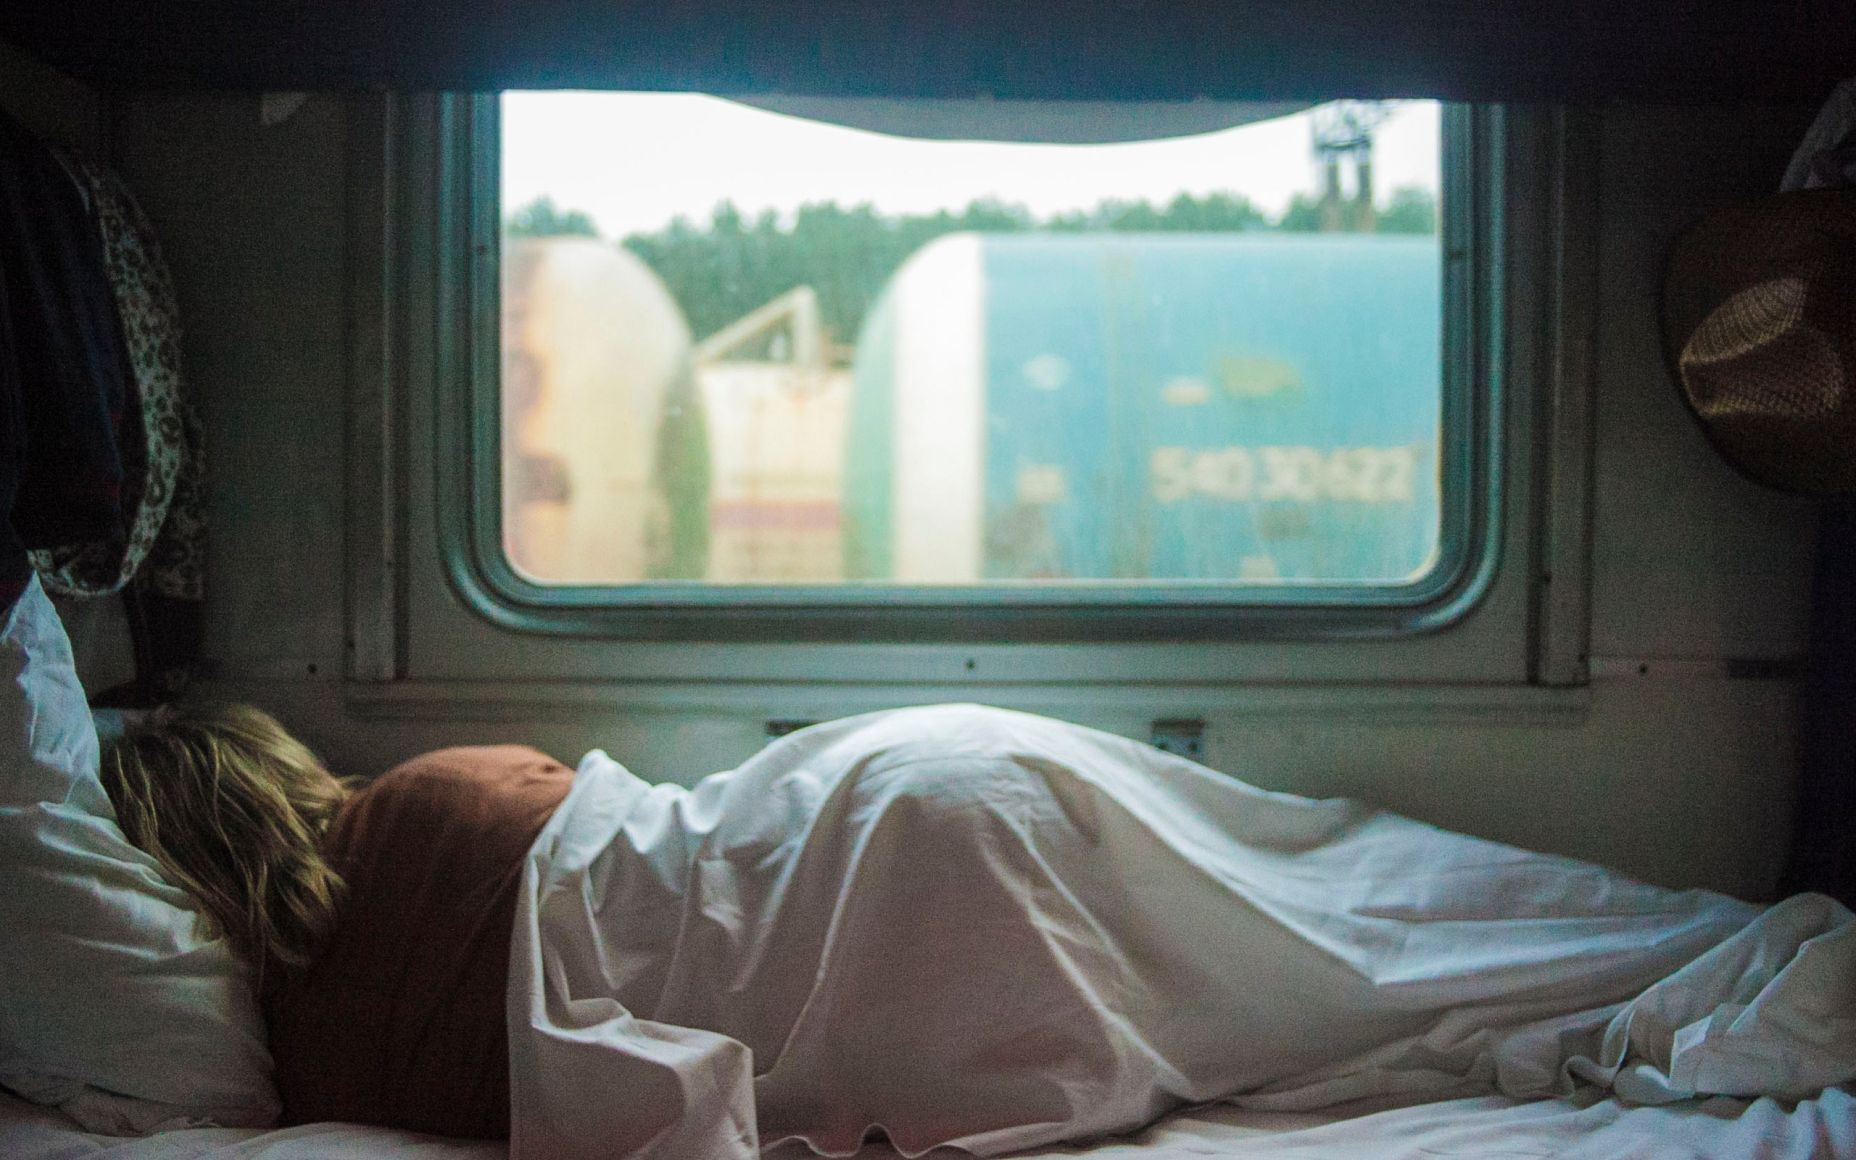
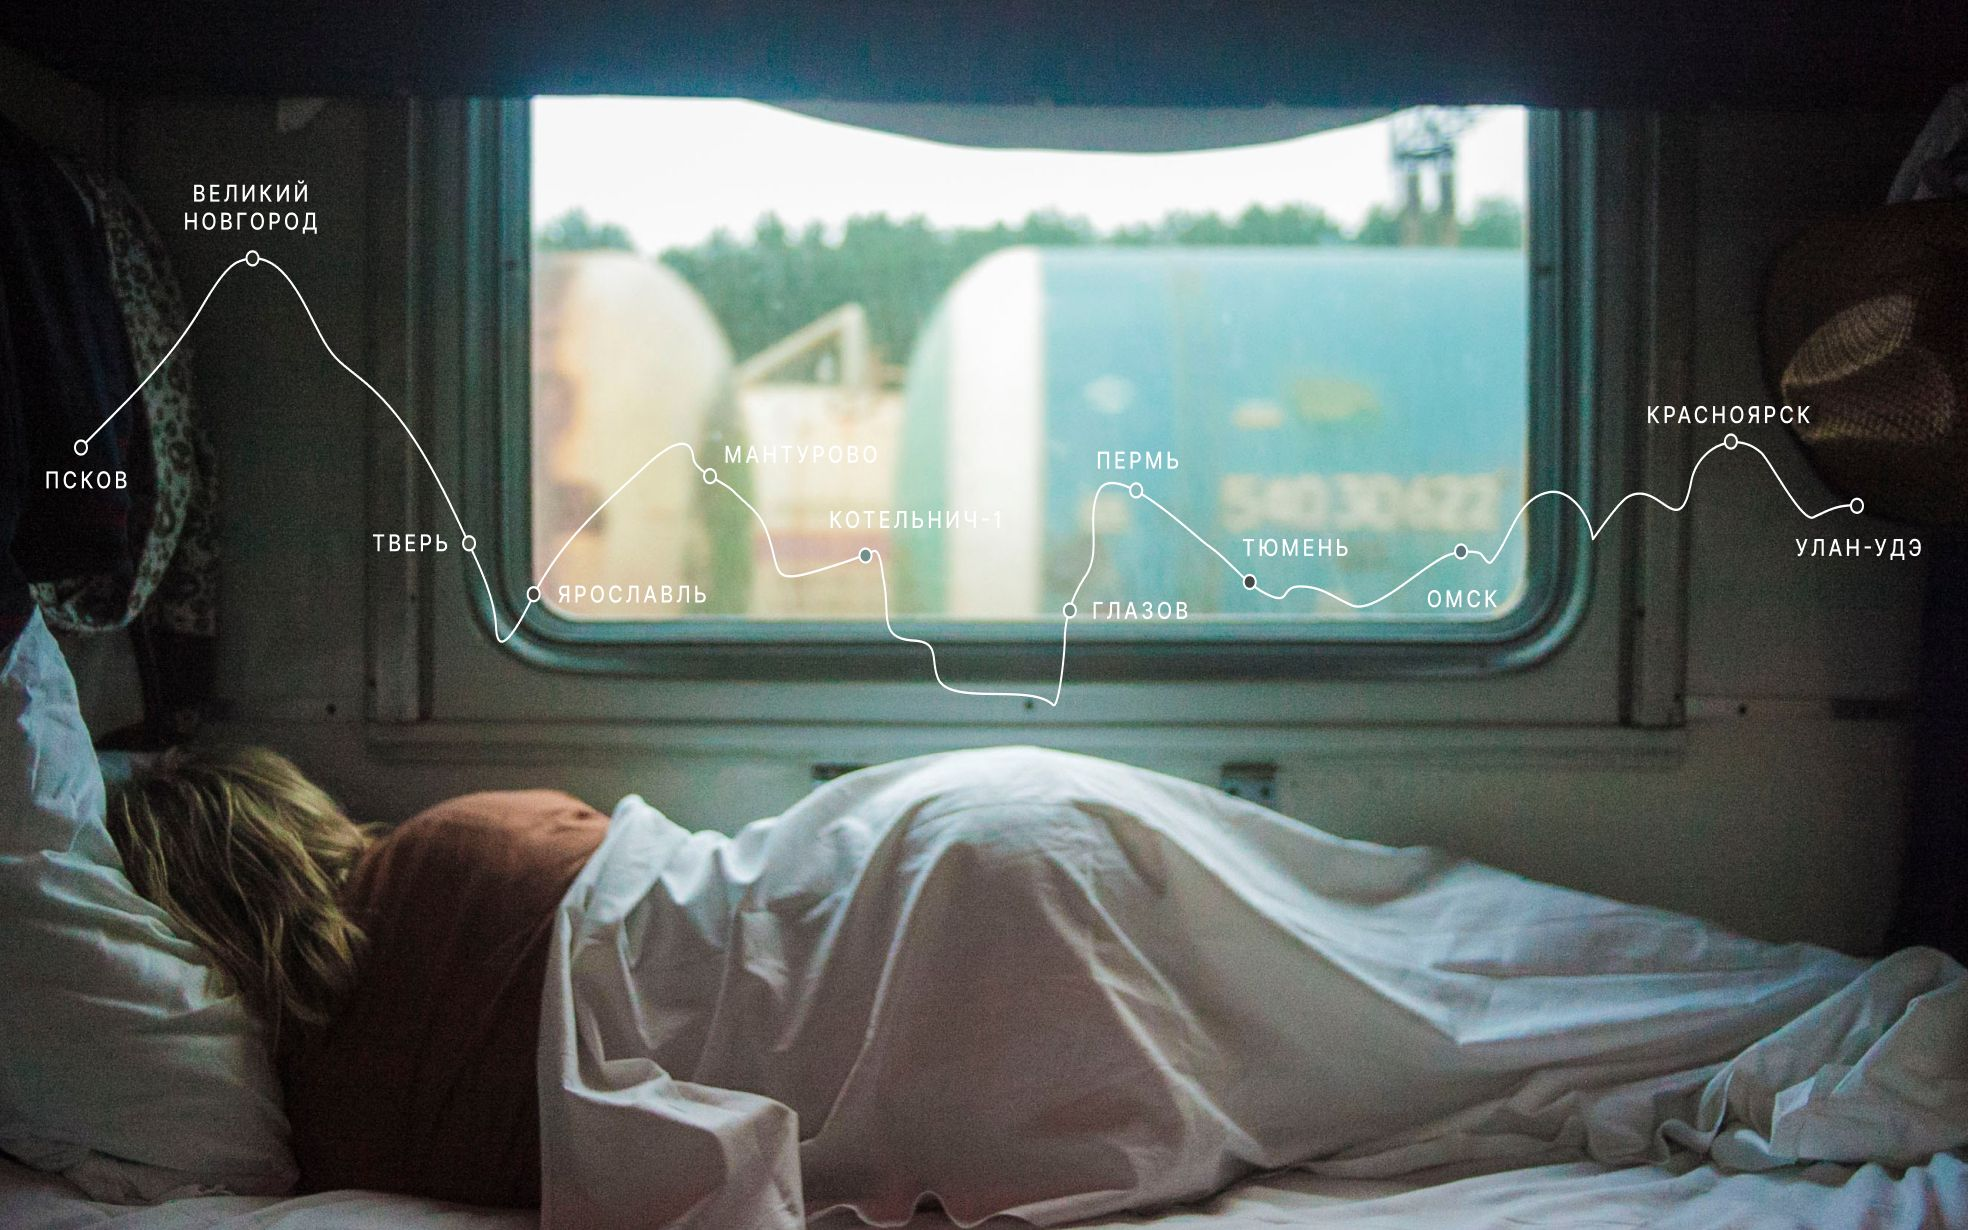
Исправлены ошибки в html после валидатора, заменено изображение полки с наложенным маршрутом

diff --git a/index.html b/index.html
@@ -12,8 +12,8 @@
       <img class="header__logo" src="./images/header-logo.svg" alt="Мини-карта России">   
       <ul class="header__lang-links">
         <li class="header__lang-link header__lang-link_lang_ru header__lang-link_active_yes">Ru</li>
-        <li class="header__lang-link header__lang-link_lang_en">En</;>
-      </г>     
+        <li class="header__lang-link header__lang-link_lang_en">En</li>
+      </ul>     
     </header>
     <section class="lead page__lead section section_width_nearzero">
       <h1 class="lead__title lead__title_wide_adaptive">Путешествия по России</h1>
@@ -122,7 +122,6 @@
         <a class="menu__link" href="https://rasp.yandex.ru">Расписание</a>
         <a class="menu__link" href="https://calendar.yandex.ru">Календарь</a>
         <a class="menu__link" href="https://travel.yandex.ru">Путешествия</a>
-        </ul>
       </nav>
       <p class="footer__copyright">&copy; 2022. Леонид Долгодворов</p>
     </footer>
